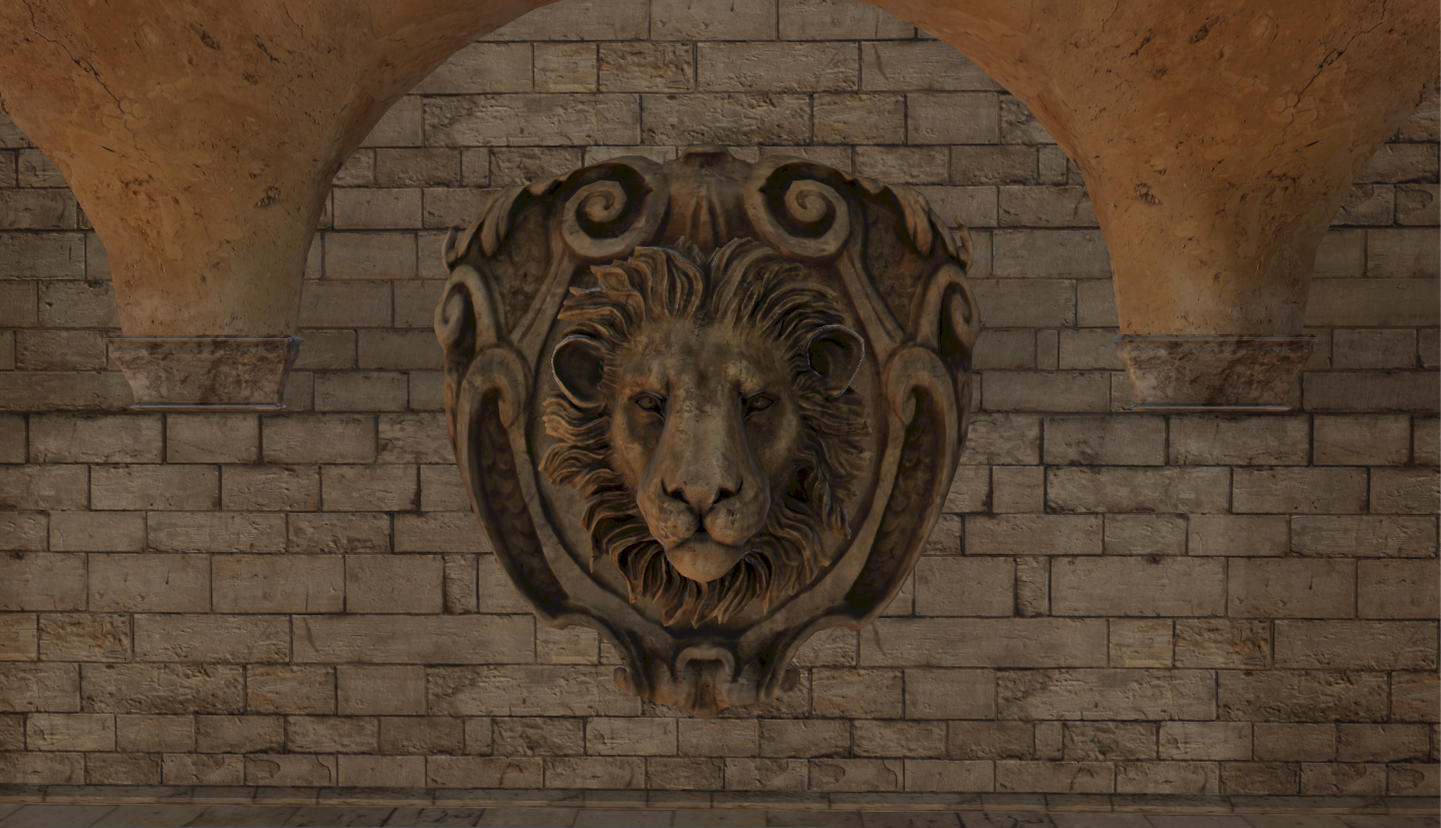
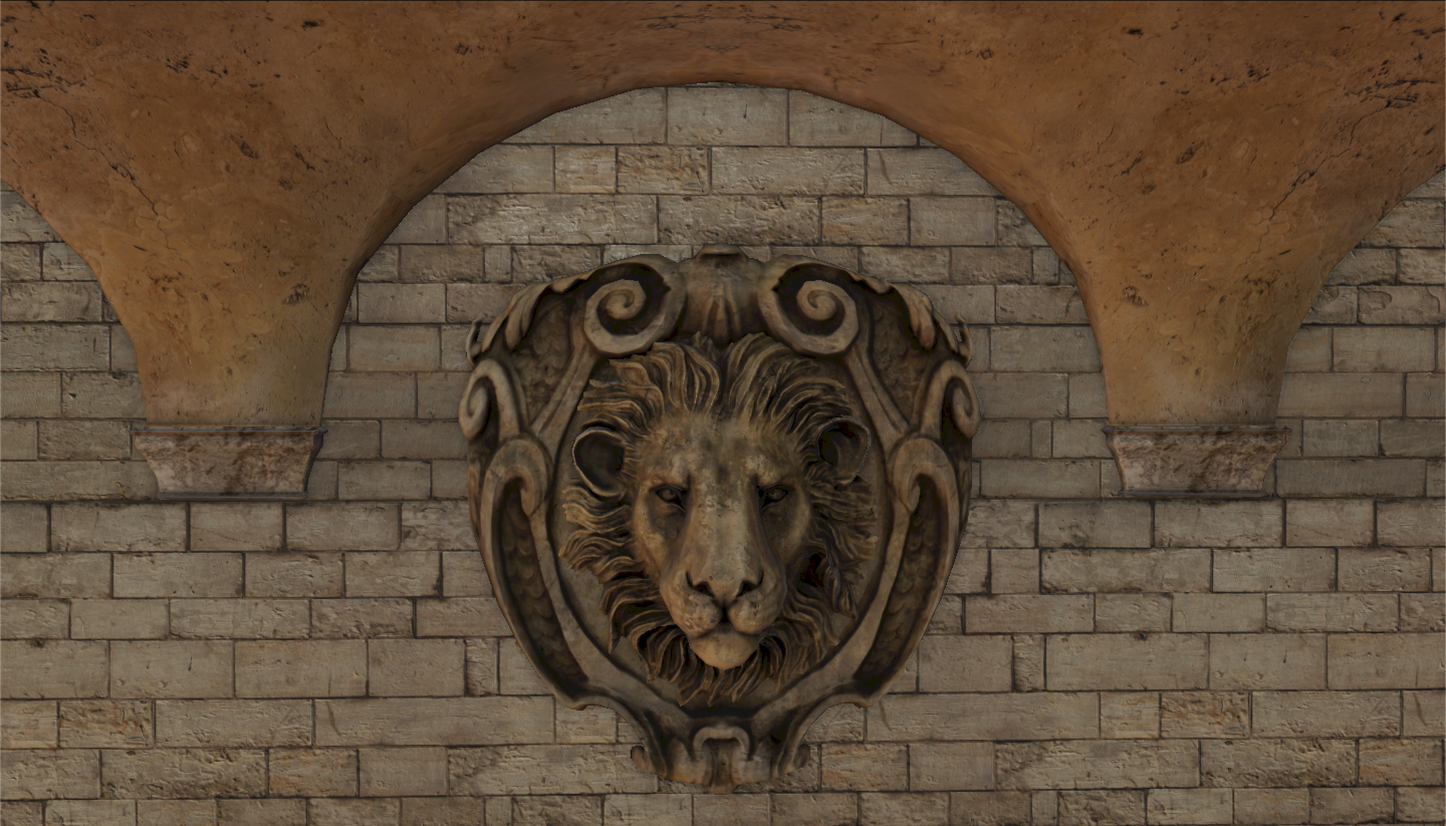
refactor(rendering): remove `BlendPass`, integrate blending into `ForwardPass`, and unify opaque and blended rendering pipeline

diff --git a/src/rendering/renderPipeline.cpp b/src/rendering/renderPipeline.cpp
@@ -17,9 +17,8 @@
 #include "renderPasses/deferredLightingPass.h"
 #include "renderPasses/ssaoPass.h"
 #include "renderPasses/debugPass.h"
-#include "renderPasses/forwardOpaquePass.h"
+#include "renderPasses/forwardPass.h"
 #include "renderPasses/blendInstancedPass.h"
-#include "renderPasses/blendPass.h"
 #include "renderPasses/opaqueInstancedPass.h"
 #include "renderPasses/beginScenePass.h"
 #include "renderPasses/frustumCullingPass.h"
@@ -136,8 +135,8 @@ void RenderPipeline::configure(const Camera& camera) {
 		mRenderPasses.push_back(mDeferredLightingPass);
 	}
 
-	if (!mRenderQueue.forwardOpaqueGroups.empty()) {
-		mRenderPasses.push_back(std::make_shared<ForwardOpaquePass>());
+	if (!mRenderQueue.opaqueGroups.empty() || !mRenderQueue.blendGroups.empty()) {
+		mRenderPasses.push_back(std::make_shared<ForwardPass>());
 	}
 
 	if (!mRenderQueue.debugGroups.empty()) {
@@ -146,10 +145,6 @@ void RenderPipeline::configure(const Camera& camera) {
 
 	if (!mRenderQueue.opaqueInstancedGroups.empty()) {
 		mRenderPasses.push_back(std::make_shared<OpaqueInstancedPass>());
-	}
-
-	if (!mRenderQueue.blendGroups.empty()) {
-		mRenderPasses.push_back(std::make_shared<BlendPass>());
 	}
 
 	if (!mRenderQueue.blendInstancedGroups.empty()) {
@@ -379,7 +374,7 @@ void RenderPipeline::batchEntity(const Entity& entity) {
 		if (material.flag & PBR) {
 			mRenderQueue.deferredGroups.push_back(group);
 		} else if (material.flag & OPAQUE) {
-			mRenderQueue.forwardOpaqueGroups.push_back(group);
+			mRenderQueue.opaqueGroups.push_back(group);
 		} else if (material.flag & BLEND) {
 			mRenderQueue.blendGroups.push_back(group);
 		}
@@ -406,7 +401,7 @@ void RenderPipeline::sortEntities() {
 
 	// Sort opaque objects front to back
 	sortBatches(mRenderQueue.deferredGroups, false);
-	sortBatches(mRenderQueue.forwardOpaqueGroups, false);
+	sortBatches(mRenderQueue.opaqueGroups, false);
 	sortBatches(mRenderQueue.blendGroups, true);
 
 	// for (auto& [entity, transforms, materials]: renderQueues.blendInstancedGroup) {

diff --git a/src/rendering/renderPasses/forwardPass.cpp b/src/rendering/renderPasses/forwardPass.cpp
@@ -1,0 +1,38 @@
+#include "forwardPass.h"
+#include "glad/glad.h"
+#include "../shader.h"
+#include "../renderCommon.h"
+#include "../buffers/frameBuffer.h"
+#include "../material/material.hpp"
+#include "../renderContext/renderContext.hpp"
+#include "../renderContext/renderQueue.hpp"
+#include "../renderContext/renderGroup.hpp"
+
+ForwardPass::~ForwardPass() = default;
+
+void ForwardPass::configure(const RenderContext& ctx) {
+	for (const auto& [entity, matb]: ctx.renderQueue->opaqueGroups) {
+		const auto& [material, shader, meshes] = matb;
+		shader->activate();
+		shader->setInt("shadowMap", ctx.shadow.textureSlot);
+		shader->setInt("shadowCubemap", ctx.shadow.textureSlot + 1);
+		shader->setInt("persShadowMap", ctx.shadow.textureSlot + 2);
+	}
+}
+
+void ForwardPass::execute(const RenderContext& ctx) {
+	ctx.sceneBuffer->bind();
+	if (!ctx.renderQueue->blendObjects.empty()) {
+		glDepthMask(GL_FALSE);
+		glEnable(GL_BLEND);
+		glBlendFunc(GL_SRC_ALPHA, GL_ONE_MINUS_SRC_ALPHA);
+
+		RenderCommon::forward(ctx.renderQueue->blendObjects);
+
+		glDepthMask(GL_TRUE);
+		glDisable(GL_BLEND);
+	}
+
+	RenderCommon::forward(ctx.renderQueue->opaqueObjects);
+	ctx.sceneBuffer->unbind();
+}

diff --git a/src/rendering/renderCommon.cpp b/src/rendering/renderCommon.cpp
@@ -5,11 +5,37 @@
 #include "texture/texture.h"
 #include "mesh/mesh.h"
 #include "renderContext/renderContext.hpp"
+#include "renderContext/renderableObject.hpp"
 #include "renderContext/entityData.hpp"
 #include "../math/matrix.h"
 #include "../ECS/components/material.hpp"
 #include "../ECS/components/mesh.hpp"
 #include "../ECS/components/transform.hpp"
+
+void RenderCommon::forward(const std::vector<RenderableObject>& objects) {
+	const Material* lastMaterial = nullptr;
+	const Shader* lastShader = nullptr;
+
+	for (const auto& [entity, material, shader, mesh]: objects) {
+		if (lastShader != shader) {
+			lastShader = shader;
+			lastShader->activate();
+			lastMaterial = nullptr;
+		}
+
+		setupTransform(*entity, *lastShader);
+
+		if (lastMaterial != material) {
+			setupMaterial(*entity, *material, *lastShader);
+			bindTextures(material->textures, *lastShader);
+			lastMaterial = material;
+		}
+
+		drawMesh(*mesh);
+	}
+	if (lastMaterial)
+		unbindTextures(lastMaterial->textures);
+}
 
 void RenderCommon::setupTransform(const EntityData& entity, const Shader& shader) {
 	const glm::mat4 model = math::modelMatrix(

diff --git a/src/rendering/renderContext/renderQueue.hpp b/src/rendering/renderContext/renderQueue.hpp
@@ -12,14 +12,14 @@ struct RenderQueue {
 	std::vector<InstanceGroup> blendInstancedGroups;
 	// Render groups
 	std::vector<RenderGroup> debugGroups;
-	std::vector<RenderGroup> forwardOpaqueGroups;
+	std::vector<RenderGroup> opaqueGroups;
 	std::vector<RenderGroup> deferredGroups;
 	std::vector<RenderGroup> blendGroups;
 	std::vector<RenderGroup> shadowGroups;
 	std::vector<RenderGroup> skybox;
 	// Renderable Objects
 	std::vector<RenderableObject> deferredObjects;
-	std::vector<RenderableObject> forwardObjects;
+	std::vector<RenderableObject> opaqueObjects;
 	std::vector<RenderableObject> blendObjects;
 	std::vector<RenderableObject> dbgObjects;
 	std::vector<RenderableObject> shadowingObjects;

diff --git a/src/rendering/renderPasses/frustumCullingPass.cpp b/src/rendering/renderPasses/frustumCullingPass.cpp
@@ -41,7 +41,7 @@ void FrustumCullingPass::execute(const RenderContext& ctx) {
 		}
 	};
 
-	cullItems(ctx.renderQueue->forwardOpaqueGroups, ctx.renderQueue->forwardObjects);
+	cullItems(ctx.renderQueue->opaqueGroups, ctx.renderQueue->opaqueObjects);
 	cullItems(ctx.renderQueue->deferredGroups, ctx.renderQueue->deferredObjects);
 	cullItems(ctx.renderQueue->blendGroups, ctx.renderQueue->blendObjects);
 	cullItems(ctx.renderQueue->shadowGroups, ctx.renderQueue->shadowingObjects);

diff --git a/src/rendering/renderCommon.h b/src/rendering/renderCommon.h
@@ -2,6 +2,7 @@
 #include <unordered_map>
 #include <vector>
 
+struct RenderableObject;
 struct RenderContext;
 struct EntityData;
 struct Material;
@@ -11,6 +12,8 @@ class Shader;
 class Entity;
 
 namespace RenderCommon {
+void forward(const std::vector<RenderableObject>& objects);
+
 void setupTransform(const EntityData& entity, const Shader& shader);
 
 void setupMaterial(const EntityData& entity, const Material& material, const Shader& shader);

diff --git a/src/rendering/renderPasses/forwardPass.h b/src/rendering/renderPasses/forwardPass.h
@@ -1,9 +1,9 @@
 #pragma once
 #include "IRenderPass.hpp"
 
-class ForwardOpaquePass final : public IRenderPass {
+class ForwardPass final : public IRenderPass {
 public:
-	~ForwardOpaquePass() override;
+	~ForwardPass() override;
 
 	void configure(const RenderContext& ctx) override;
 
